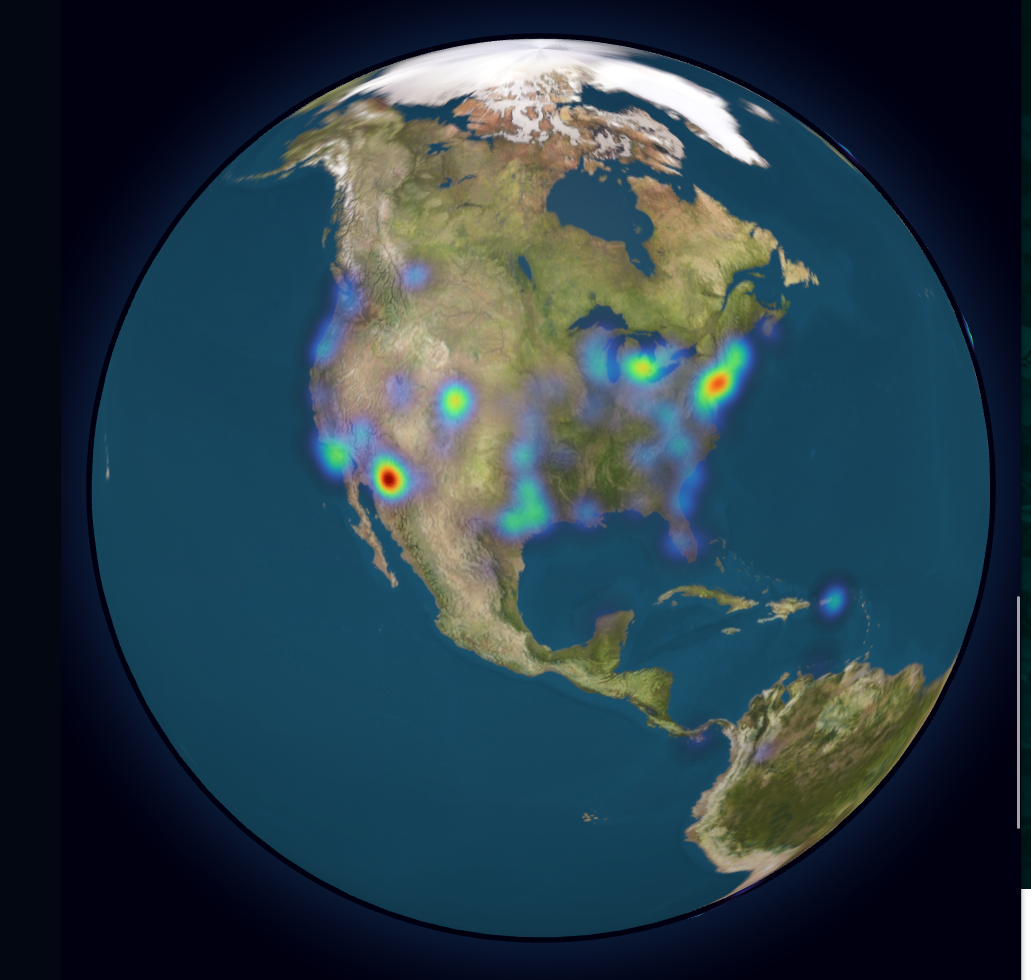
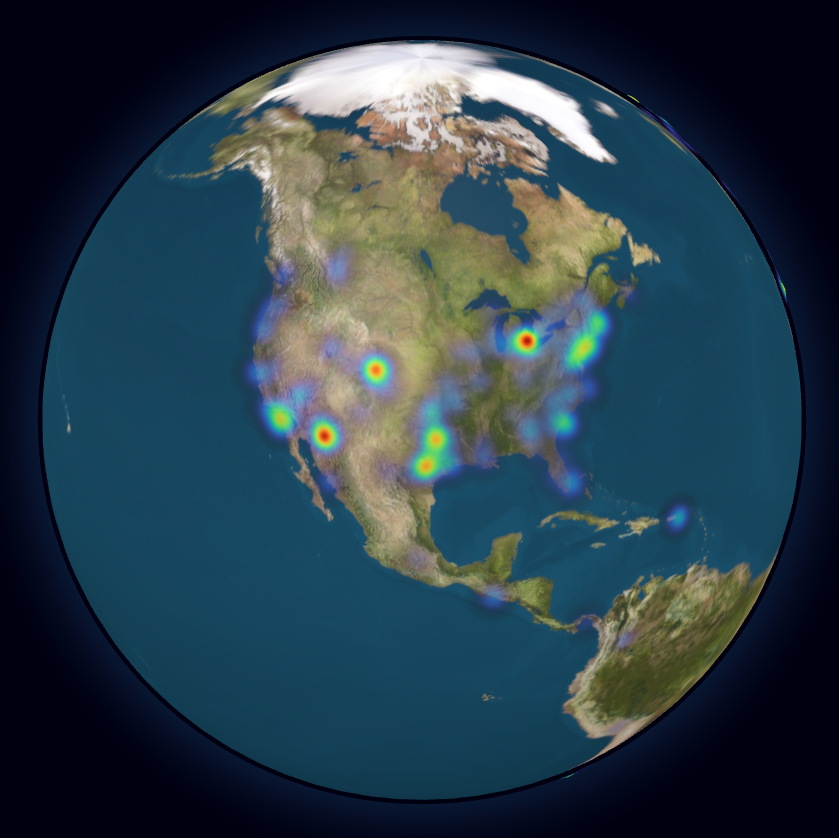
Styling changes, new statistics, and improve the layout of the "What can you do?" section

Changed region(s): [[0.031, 0.031, 1.0, 1.0], [0.9917, 0.0931, 1.0, 0.4344], [0.5578, 0.8067, 0.5888, 0.8377]]

diff --git a/app/routes/_index.tsx b/app/routes/_index.tsx
@@ -1,5 +1,4 @@
 import type { MetaFunction } from "@remix-run/node";
-import { Link } from "@remix-run/react";
 import { lazy, useEffect, useState, type ReactNode } from "react";
 import {
   MdCrueltyFree,
@@ -7,10 +6,12 @@ import {
   MdGroups,
   MdLight,
   MdLightMode,
+  MdOutlineLightMode,
 } from "react-icons/md";
 import { getObservations } from "~/data";
 import milkyWayFromEarth from "/darkened-des-recits-2O18Tz8QidM-unsplash.jpg?url";
 import globeVizPreview from "/globe-viz-preview.png?url";
+import nightSky from "/mxi-art-id0A-td1JBk-unsplash.jpg?url";
 import earthFromSpace from "/nasa-Q1p7bh3SHj8-unsplash.jpg?url";
 
 export const meta: MetaFunction = () => {
@@ -48,9 +49,21 @@ export default function Index() {
           <p className="max-w-prose text-balance text-center">
             A citizen science project mapping light pollution across the globe.
             View the project's official website{" "}
-            <a href="https://globeatnight.org/">here</a>.
+            <a href="https://globeatnight.org/" target="_blank">
+              here
+            </a>
+            .
           </p>
-          <a href="#intro" className="max-w-max">
+          <a
+            href="#intro"
+            className="max-w-max"
+            onClick={(e) => {
+              e.preventDefault();
+              document
+                .getElementById("intro")
+                ?.scrollIntoView({ behavior: "smooth" });
+            }}
+          >
             <button className="font-mono uppercase bg-white border hover:bg-gray-200 transition-colors px-4 py-2 text-black">
               Explore
             </button>
@@ -147,13 +160,13 @@ export default function Index() {
           <p></p>
         </div>
       </section>
-      <section className="my-36 px-16">
+      <section className="mt-36 mb-72 px-16">
         {/* <img
           src={milkyWayFromEarth}
           className="absolute inset-0 object-cover"
         /> */}
-        <div className="flex flex-col gap-4">
-          <h1 className="text-white text-6xl font-bold">
+        <div className="flex flex-col gap-4 max-w-prose mx-auto">
+          <h1 className="text-white text-6xl font-bold mb-4">
             A Citizen Science Project
           </h1>
           <ul>
@@ -179,23 +192,42 @@ export default function Index() {
       </section>
       <section className="flex min-h-screen items-center justify-center">
         <div className="grid lg:grid-cols-2">
-          <div className="px-16 mb-16">
+          <div className="px-16 mb-16 max-w-prose">
             <h2 className="text-6xl font-bold mb-4">Explore the Data</h2>
+            <p className="mb-2">
+              Globe At Night collects observations in the form of{" "}
+              <strong>limiting magnitude</strong> values. Limiting magnitude is
+              a logaritmic scale from 0 to 7 representing how bright stars at a
+              certain distance appear to us, with 0 representing nearly no
+              visibility and 7 representing nearly perfect visibility for the
+              constellations that the project observes.
+            </p>
             <p>
               Over the past <strong>18 years</strong>, contributors have
               submitted <strong>291,306</strong> light pollution observations.
-            </p>
-            <p className="mb-4">
               The globe <span className="hidden lg:inline">to the right</span>
               <span className="lg:hidden">below</span> displays a random sample
-              of observations. Drag to pan the camera, and pinch or scroll to
-              zoom.
+              of 1,000 observations from the 2010s. Drag to pan the camera, and
+              pinch or scroll to zoom.
             </p>
-            <Link to="/data">
-              <button className="font-mono uppercase bg-white border hover:bg-gray-200 transition-colors px-4 py-2 text-black">
-                More Visualizations
-              </button>
-            </Link>
+            <div className="grid grid-cols-2 gap-16 mt-24">
+              <div className="text-center">
+                <p className="text-4xl font-bold">16</p>
+                <p>Constellations Monitored</p>
+              </div>
+              <div className="text-center">
+                <p className="text-4xl font-bold">3.32</p>
+                <p>Average Limiting Magnitude</p>
+              </div>
+              <div className="text-center">
+                <p className="text-4xl font-bold">14,043</p>
+                <p>Observations Per Year</p>
+              </div>
+              <div className="text-center">
+                <p className="text-4xl font-bold">1.66%</p>
+                <p>Observations with Perfect Visibility</p>
+              </div>
+            </div>
           </div>
           <div className="max-lg:mx-2 overflow-hidden">
             <EarthViz>
@@ -204,45 +236,78 @@ export default function Index() {
           </div>
         </div>
       </section>
-      <section
-        className="grid md:grid-cols-2 gap-16 px-16 my-36"
-        id="what-can-you-do"
-      >
-        <div>
-          <h2 className="text-6xl font-bold mb-4">What Can You Do?</h2>
-          <p>
-            Reducing light pollution is a global problem, but you can enact
-            change right now in your community.
-          </p>
-        </div>
-        <div>
-          <ul className="grid grid-cols-3 gap-4">
-            <li>
-              Raise awareness for this issue and the negative impacts that it
-              has.
-            </li>
-            <li>
-              Implement “smart” lighting with motion sensors to make sure light
-              is only being used when needed.
-            </li>
-            <li>
-              Minimize the use of decorative lighting and turn it off when not
-              in use.
-            </li>
-            <li>
-              Shield lighting so that it is focused where it is needed and does
-              not pollute the night sky.
-            </li>
-            <li>
-              Write to legislators to put these protocols into place in order to
-              make them more widespread.
-            </li>
-          </ul>
-        </div>
+      <section id="what-can-you-do" className="flex flex-col px-16 my-36">
+        <h2 className="text-6xl font-bold mb-4">What Can You Do?</h2>
+        <p className="mb-8">
+          Reducing light pollution is a global problem, but you can enact change
+          right now in your community.
+        </p>
+        <div className="h-full w-1 bg-white" />
+        <ul className="list-none grid grid-cols-2 gap-8">
+          <li className="flex items-center gap-4">
+            <div className="bg-white rounded-full size-8 flex-shrink-0 flex items-center justify-center text-black">
+              <MdOutlineLightMode />
+            </div>
+            <span>
+              <strong>Raise awareness</strong> for this issue and the negative
+              impacts that it has.
+            </span>
+          </li>
+          <li className="flex items-center gap-4">
+            <div className="bg-white rounded-full size-8 flex-shrink-0 flex items-center justify-center text-black">
+              <MdOutlineLightMode />
+            </div>
+            <span>
+              <strong>Implement “smart” lighting</strong> with motion sensors to
+              make sure light is only being used when needed.
+            </span>
+          </li>
+          <li className="flex items-center gap-4">
+            <div className="bg-white rounded-full size-8 flex-shrink-0 flex items-center justify-center text-black">
+              <MdOutlineLightMode />
+            </div>
+            <span>
+              <strong>Minimize</strong> the use of decorative lighting and turn
+              it off when not in use.
+            </span>
+          </li>
+          <li className="flex items-center gap-4">
+            <div className="bg-white rounded-full size-8 flex-shrink-0 flex items-center justify-center text-black">
+              <MdOutlineLightMode />
+            </div>
+            <span>
+              <strong>Shield lighting</strong> so that it is focused where it is
+              needed and does not pollute the night sky.
+            </span>
+          </li>
+          <li className="flex items-center gap-4">
+            <div className="bg-white rounded-full size-8 flex-shrink-0 flex items-center justify-center text-black">
+              <MdOutlineLightMode />
+            </div>
+            <span>
+              <strong>Write to legislators</strong> to put these protocols into
+              place in order to make them more widespread.
+            </span>
+          </li>
+          <li className="flex items-center gap-4">
+            <div className="bg-white rounded-full size-8 flex-shrink-0 flex items-center justify-center text-black">
+              <MdOutlineLightMode />
+            </div>
+            <span>
+              <strong>
+                <a href="https://app.globeatnight.org/">Make an observation</a>
+              </strong>{" "}
+              to contribute to Globe At Night's citizen science dataset.
+            </span>
+          </li>
+        </ul>
       </section>
-      <section className="px-16 my-36 flex flex-col items-center justify-center">
-        <h2 className="text-6xl font-bold mb-2">Look Up At The Night Sky</h2>
-        <p className="mb-4">
+      <section
+        className="px-16 mt-36 flex flex-col items-center justify-center py-48 relative"
+        style={{ backgroundImage: `url(${nightSky})` }}
+      >
+        <h2 className="text-6xl font-bold mb-4">Look Up At The Night Sky</h2>
+        <p className="mb-8">
           Support the Globe At Night project by recording your own observation.
         </p>
         <a href="https://app.globeatnight.org/" className="max-w-max">
@@ -258,10 +323,12 @@ export default function Index() {
 function EarthViz({ children }: { children: ReactNode }) {
   const [obs, setObs] = useState<any | undefined>();
   const [load, setLoad] = useState(false);
+  const [building, setBuilding] = useState(false);
 
   useEffect(() => {
     if (load && !obs) {
       getObservations().then(setObs);
+      setBuilding(true);
     }
   }, [load]);
 
@@ -277,7 +344,7 @@ function EarthViz({ children }: { children: ReactNode }) {
         <div className="absolute inset-4 flex flex-col items-center justify-end">
           <div className="bg-white text-black rounded-md p-4">
             <p className="mb-2">
-              Loading this visualization will download a lot of data.
+              Loading this visualization will download 36 MB of data.
             </p>
             {!load ? (
               <>
@@ -291,7 +358,7 @@ function EarthViz({ children }: { children: ReactNode }) {
             ) : (
               <p className="items-center">
                 <div className="inline-block border-t-blue-500 border-b-blue-500 border-transparent rounded-full animate-spin size-4 border-2 mr-2" />
-                Loading visualization...
+                {building ? "Building visualization..." : "Loading data..."}
               </p>
             )}
           </div>

diff --git a/app/data.ts b/app/data.ts
@@ -13,7 +13,7 @@ export async function getObservations() {
   const db = new SQL.Database(new Uint8Array(data));
 
   const res = db.exec(
-    "select ID, Latitude, Longitude, LimitingMag from observations where ObsDateTime like '201%' and LimitingMag > 0 ORDER BY RANDOM() LIMIT 500;"
+    "select ID, Latitude, Longitude, LimitingMag from observations where ObsDateTime like '201%' and LimitingMag > 0 ORDER BY RANDOM() LIMIT 1000;"
   );
 
   return res;

diff --git a/app/tailwind.css b/app/tailwind.css
@@ -22,7 +22,7 @@ a {
   @apply underline font-medium;
 }
 
-ul > li {
+ul:not(.list-none) > li {
   list-style: disc;
   margin-inline-start: 1rem;
 }

diff --git a/README.md b/README.md
@@ -23,6 +23,7 @@ If I were to scale this website to a substantial number of visitors, I would pre
 - Planet texture: https://planetpixelemporium.com/earth8081.html
 - NASA (via Unsplash): https://unsplash.com/photos/photo-of-outer-space-Q1p7bh3SHj8
 - Des Récits (via Unsplash): https://unsplash.com/photos/photo-of-mountain-with-trees-during-night-2O18Tz8QidM
+- MXI Art (via Unsplash): https://unsplash.com/photos/blue-sky-with-stars-during-night-time-id0A-td1JBk
 - Favicon: https://globeatnight.org/static/images/favicon.ico
 
 ## Fonts
